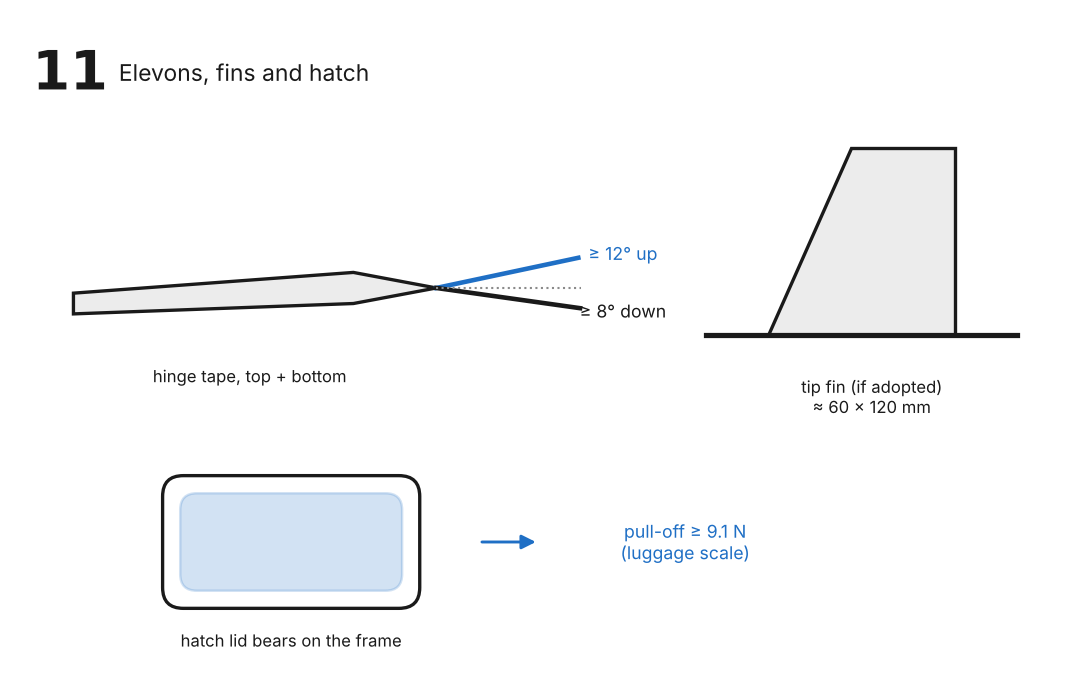
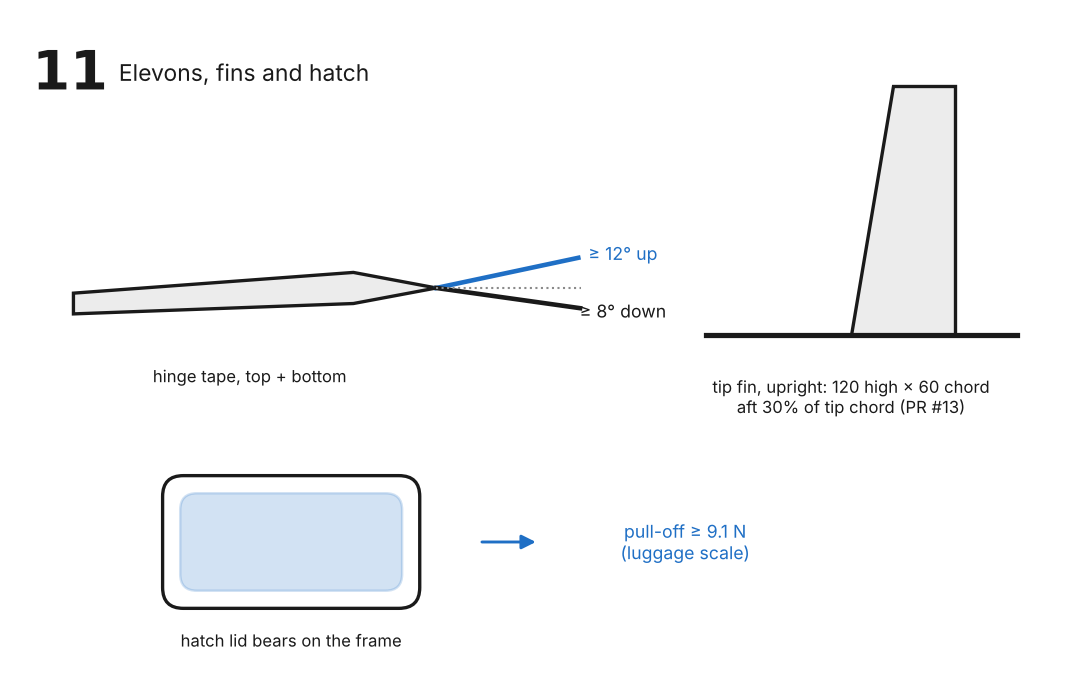
ZB-ER-001 Rev B figures: upright tip fin 120 x 60 (A-1, B-11)
Claude-Session: https://claude.ai/code/session_01U6y8g27GvfNaGbaCvygcNL

diff --git a/reports/ZB-ER-001/build_steps.py b/reports/ZB-ER-001/build_steps.py
@@ -285,8 +285,8 @@ for ang, col, lab in ((12, ACC, "≥ 12° up"), (-8, INK, "≥ 8° down")):
     note(ax, (58, 36.5 + 16 * math.sin(t)), lab, fs=8.5, col=col)
 ax.plot([40, 54], [36.5, 36.5], color=GREY, lw=1, ls=":"); note(ax, (22, 28), "hinge tape, top + bottom", fs=8)
 # fin
-ax.add_patch(Polygon([[72, 32], [90, 32], [90, 50], [80, 50]], fc=LIGHT, ec=INK, lw=LW)); ax.plot([66, 96], [32, 32], color=INK, lw=2.5)
-note(ax, (82, 26), "tip fin (if adopted)\n≈ 60 × 120 mm", fs=8)
+ax.add_patch(Polygon([[80, 32], [90, 32], [90, 56], [84, 56]], fc=LIGHT, ec=INK, lw=LW)); ax.plot([66, 96], [32, 32], color=INK, lw=2.5)
+note(ax, (80, 26), "tip fin, upright: 120 high × 60 chord\naft 30% of tip chord (PR #13)", fs=8)
 # hatch lid
 ax.add_patch(FancyBboxPatch((14, 6), 24, 12, boxstyle="round,pad=0.4,rounding_size=2", fc="white", ec=INK, lw=LW))
 ax.add_patch(FancyBboxPatch((15.5, 7.5), 21, 9, boxstyle="round,pad=0.2,rounding_size=1.6", fc=ACC, alpha=0.2, ec=ACC, lw=1.2))

diff --git a/reports/ZB-ER-001/drawings.py b/reports/ZB-ER-001/drawings.py
@@ -62,8 +62,8 @@ for xv, lab, col in ((128.5, "CG 128.5", INK), (142.6, "NP 142.6", ACC)):
     ax.plot([-12, 12], [-xv, -xv], color=col, lw=1.4); ax.plot([-120, -14], [-xv, -xv], color=col, lw=0.5, ls=":"); ax.text(-124, -xv, lab, fontsize=7.5, ha="right", va="center", color=col)
 # fins (proposed)
 for s in (-1, 1):
-    ax.plot([s * 450, s * 450], [-(xle(450) + 80), -(xle(450) + 200)], color=ACC, lw=3, alpha=0.6)
-ax.text(450, -(xle(450) + 215), "tip fin (proposed, DR-01)", fontsize=7, ha="center", color=ACC)
+    ax.plot([s * 450, s * 450], [-(xle(450) + 140), -(xle(450) + 200)], color=ACC, lw=3, alpha=0.8)
+ax.text(450, -(xle(450) + 215), "tip fin 120 high × 60 chord (DR-01, PR #13)", fontsize=7, ha="center", color=ACC)
 # servos
 for s in (-1, 1):
     ax.add_patch(Rectangle((s * 250 - 12, -(xle(250) + 0.6 * C + 10)), 24, 20, fc="white", ec=INK, lw=0.8))
